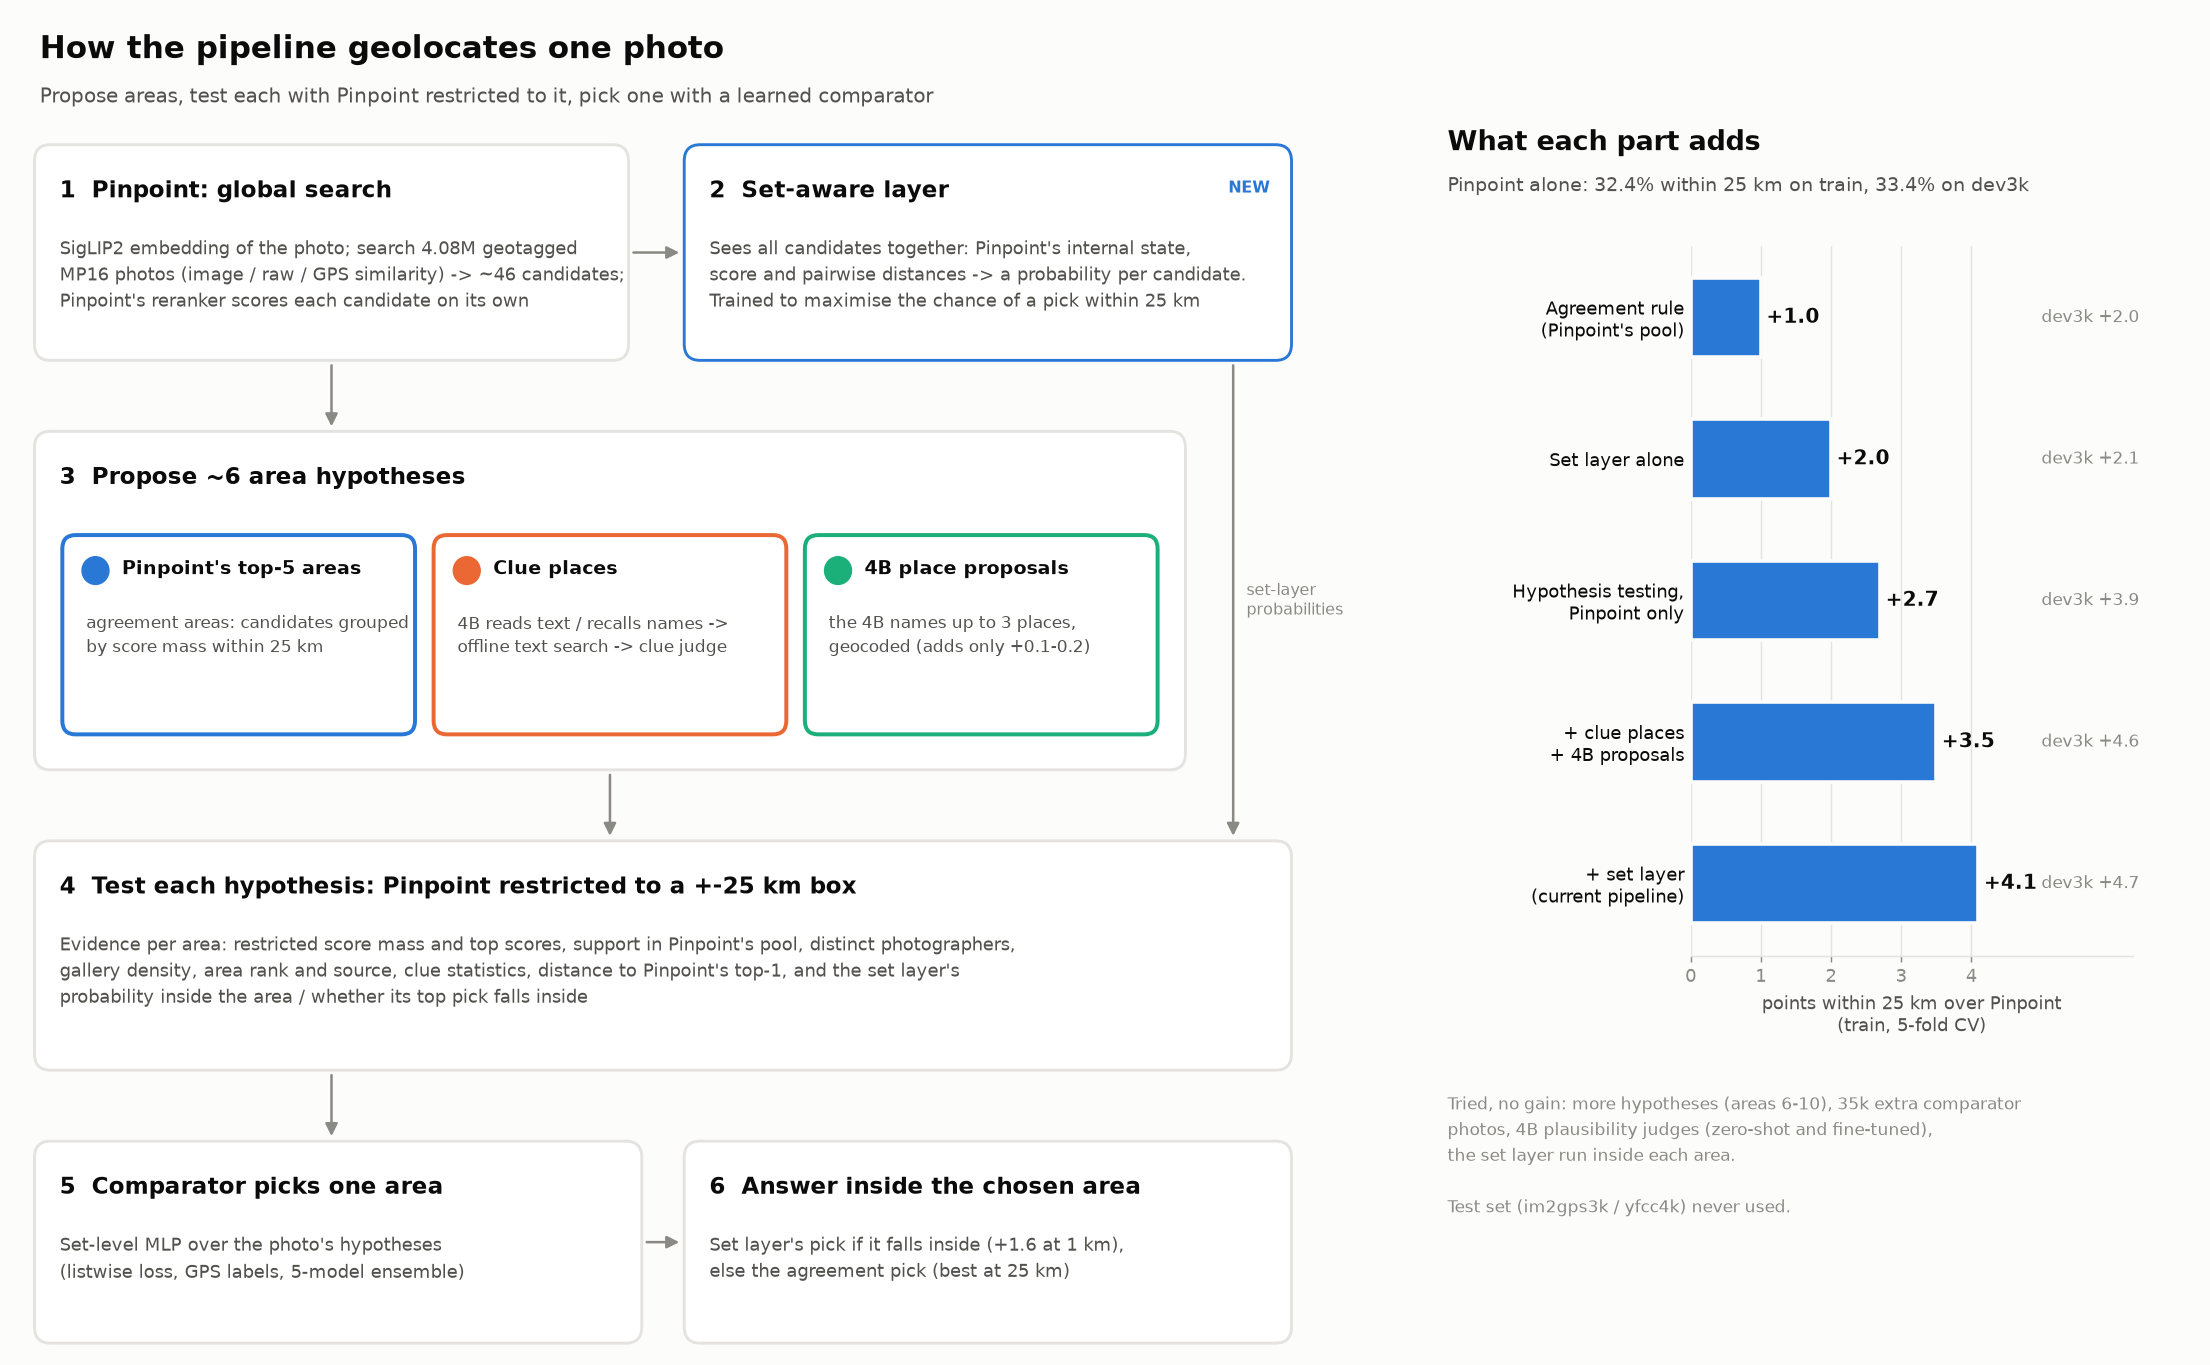
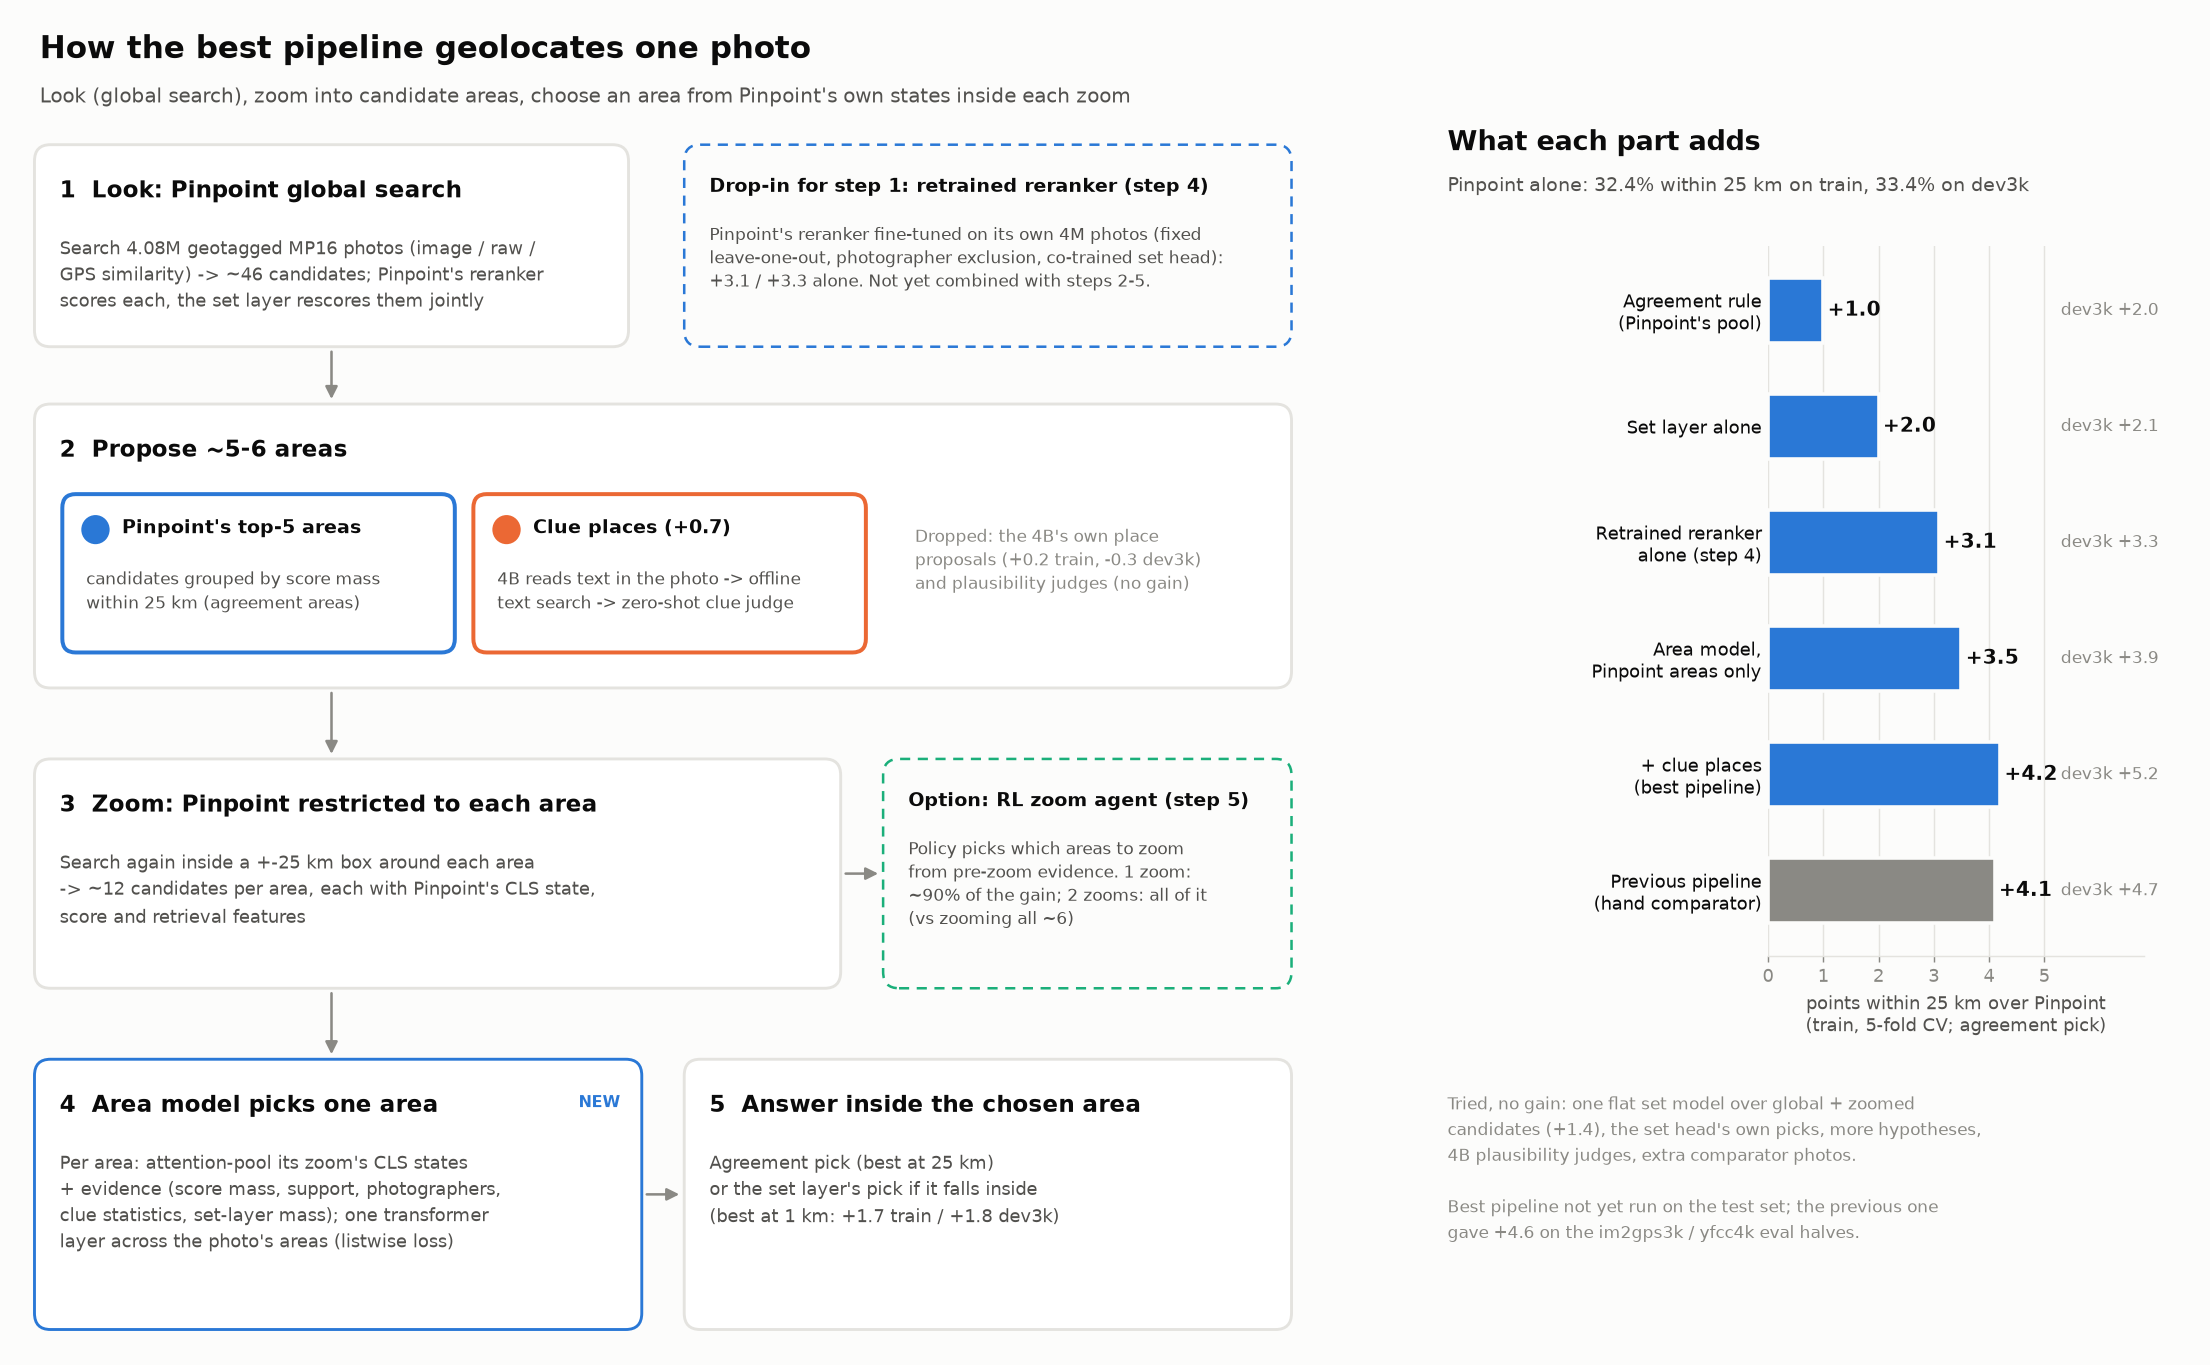
Pipeline figure redrawn for the best pipeline (area model over zoomed states, areas + clues; retrained reranker and RL zoom agent as options)

diff --git a/scripts/pipeline_figure.py b/scripts/pipeline_figure.py
@@ -1,4 +1,4 @@
-# Figure: how the current geolocation pipeline works (HYPOTHESIS_PLAN.md, lessons 68-69, set-aware Pinpoint) and what each part adds.
+# Figure: how the best geolocation pipeline works (PINPOINT_SET_PLAN.md results, lessons 68-70) and what each part adds.
 # Usage: .venvs/sft/bin/python scripts/pipeline_figure.py   (matplotlib lives in the sft env) -> docs/pipeline_overview.png
 from pathlib import Path
 
@@ -29,62 +29,67 @@ def arrow(x0, y0, x1, y1):
     ax.add_patch(FancyArrowPatch((x0, y0), (x1, y1), arrowstyle="-|>", mutation_scale=14, color=MUTED, lw=1.4))
 
 
-ax.text(3, 97.5, "How the pipeline geolocates one photo", fontsize=17, fontweight="bold", color=INK, va="top")
-ax.text(3, 93.6, "Propose areas, test each with Pinpoint restricted to it, pick one with a learned comparator", fontsize=11, color=INK2, va="top")
+def note(x, y, w, h, title, body, color):
+    ax.add_patch(FancyBboxPatch((x, y), w, h, boxstyle="round,pad=0.4,rounding_size=1.2", fc=SURFACE, ec=color, lw=1.4, ls=(0, (4, 3))))
+    ax.text(x + 1.5, y + h - 2.0, title, fontsize=10.5, fontweight="bold", color=INK, va="top")
+    ax.text(x + 1.5, y + h - 5.4, body, fontsize=9.2, color=INK2, va="top", linespacing=1.4)
 
-# 1 Pinpoint global search
-box(3, 74, 44, 15, "1  Pinpoint: global search",
-    "SigLIP2 embedding of the photo; search 4.08M geotagged\nMP16 photos (image / raw / GPS similarity) -> ~46 candidates;\nPinpoint's reranker scores each candidate on its own")
-# 2 Set layer
-box(52, 74, 45, 15, "2  Set-aware layer",
-    "Sees all candidates together: Pinpoint's internal state,\nscore and pairwise distances -> a probability per candidate.\nTrained to maximise the chance of a pick within 25 km", edge=NEW, tag="NEW")
-arrow(47.5, 81.5, 51.5, 81.5)
 
-# 3 Hypotheses
-box(3, 44, 86, 24, "3  Propose ~6 area hypotheses", "")
-srcs = [(BLUE, "Pinpoint's top-5 areas", "agreement areas: candidates grouped\nby score mass within 25 km"),
-        (ORANGE, "Clue places", "4B reads text / recalls names ->\noffline text search -> clue judge"),
-        (AQUA, "4B place proposals", "the 4B names up to 3 places,\ngeocoded (adds only +0.1-0.2)")]
+ax.text(3, 97.5, "How the best pipeline geolocates one photo", fontsize=17, fontweight="bold", color=INK, va="top")
+ax.text(3, 93.6, "Look (global search), zoom into candidate areas, choose an area from Pinpoint's own states inside each zoom",
+        fontsize=11, color=INK2, va="top")
+
+# 1 Look
+box(3, 75, 44, 14, "1  Look: Pinpoint global search",
+    "Search 4.08M geotagged MP16 photos (image / raw /\nGPS similarity) -> ~46 candidates; Pinpoint's reranker\nscores each, the set layer rescores them jointly")
+note(52, 75, 45, 14, "Drop-in for step 1: retrained reranker (step 4)",
+     "Pinpoint's reranker fine-tuned on its own 4M photos (fixed\nleave-one-out, photographer exclusion, co-trained set head):\n+3.1 / +3.3 alone. Not yet combined with steps 2-5.", BLUE)
+
+# 2 Propose
+box(3, 50, 94, 20, "2  Propose ~5-6 areas", "")
+srcs = [(BLUE, "Pinpoint's top-5 areas", "candidates grouped by score mass\nwithin 25 km (agreement areas)"),
+        (ORANGE, "Clue places (+0.7)", "4B reads text in the photo -> offline\ntext search -> zero-shot clue judge")]
 for i, (c, t, b) in enumerate(srcs):
-    x = 5 + i * 28
-    ax.add_patch(FancyBboxPatch((x, 46.5), 26, 14, boxstyle="round,pad=0.3,rounding_size=1", fc="white", ec=c, lw=2.2))
-    ax.add_patch(plt.Circle((x + 2.2, 58.2), 1.0, color=c))
-    ax.text(x + 4.2, 58.3, t, fontsize=10.5, fontweight="bold", color=INK, va="center")
-    ax.text(x + 1.5, 55.2, b, fontsize=9.5, color=INK2, va="top", linespacing=1.4)
-arrow(25, 73.5, 25, 68.5)
+    x = 5 + i * 31
+    ax.add_patch(FancyBboxPatch((x, 52.5), 29, 11, boxstyle="round,pad=0.3,rounding_size=1", fc="white", ec=c, lw=2.2))
+    ax.add_patch(plt.Circle((x + 2.2, 61.2), 1.0, color=c))
+    ax.text(x + 4.2, 61.3, t, fontsize=10.5, fontweight="bold", color=INK, va="center")
+    ax.text(x + 1.5, 58.4, b, fontsize=9.5, color=INK2, va="top", linespacing=1.4)
+ax.text(69, 61.5, "Dropped: the 4B's own place\nproposals (+0.2 train, -0.3 dev3k)\nand plausibility judges (no gain)", fontsize=9.3, color=MUTED, va="top", linespacing=1.4)
+arrow(25, 74.5, 25, 70.5)
 
-# 4 Test each hypothesis
-box(3, 22, 94, 16, "4  Test each hypothesis: Pinpoint restricted to a +-25 km box",
-    "Evidence per area: restricted score mass and top scores, support in Pinpoint's pool, distinct photographers,\n"
-    "gallery density, area rank and source, clue statistics, distance to Pinpoint's top-1, and the set layer's\n"
-    "probability inside the area / whether its top pick falls inside")
-arrow(46, 43.5, 46, 38.5)
-arrow(93, 73.5, 93, 38.5)
-ax.text(94, 56, "set-layer\nprobabilities", fontsize=9, color=MUTED, ha="left", va="center")
+# 3 Zoom
+box(3, 28, 60, 16, "3  Zoom: Pinpoint restricted to each area",
+    "Search again inside a +-25 km box around each area\n-> ~12 candidates per area, each with Pinpoint's CLS state,\nscore and retrieval features")
+note(67, 28, 30, 16, "Option: RL zoom agent (step 5)",
+     "Policy picks which areas to zoom\nfrom pre-zoom evidence. 1 zoom:\n~90% of the gain; 2 zooms: all of it\n(vs zooming all ~6)", AQUA)
+arrow(25, 49.5, 25, 44.5)
+arrow(63.5, 36, 66.5, 36)
 
-# 5 Choose and answer
-box(3, 2, 45, 14, "5  Comparator picks one area",
-    "Set-level MLP over the photo's hypotheses\n(listwise loss, GPS labels, 5-model ensemble)")
-box(52, 2, 45, 14, "6  Answer inside the chosen area",
-    "Set layer's pick if it falls inside (+1.6 at 1 km),\nelse the agreement pick (best at 25 km)")
-arrow(25, 21.5, 25, 16.5)
-arrow(48.5, 9, 51.5, 9)
+# 4 Area model and 5 answer
+box(3, 3, 45, 19, "4  Area model picks one area",
+    "Per area: attention-pool its zoom's CLS states\n+ evidence (score mass, support, photographers,\nclue statistics, set-layer mass); one transformer\nlayer across the photo's areas (listwise loss)", edge=NEW, tag="NEW")
+box(52, 3, 45, 19, "5  Answer inside the chosen area",
+    "Agreement pick (best at 25 km)\nor the set layer's pick if it falls inside\n(best at 1 km: +1.7 train / +1.8 dev3k)")
+arrow(25, 27.5, 25, 22.5)
+arrow(48.5, 12.5, 51.5, 12.5)
 
 # Right: what each part adds
-bx = fig.add_axes([0.765, 0.30, 0.20, 0.52], facecolor=SURFACE)
-rows = [("Agreement rule\n(Pinpoint's pool)", 1.0, 2.0), ("Set layer alone", 2.0, 2.1), ("Hypothesis testing,\nPinpoint only", 2.7, 3.9),
-        ("+ clue places\n+ 4B proposals", 3.5, 4.6), ("+ set layer\n(current pipeline)", 4.1, 4.7)]
+bx = fig.add_axes([0.80, 0.30, 0.17, 0.52], facecolor=SURFACE)
+rows = [("Agreement rule\n(Pinpoint's pool)", 1.0, 2.0, BLUE), ("Set layer alone", 2.0, 2.1, BLUE),
+        ("Retrained reranker\nalone (step 4)", 3.1, 3.3, BLUE), ("Area model,\nPinpoint areas only", 3.5, 3.9, BLUE),
+        ("+ clue places\n(best pipeline)", 4.2, 5.2, BLUE), ("Previous pipeline\n(hand comparator)", 4.1, 4.7, MUTED)]
 y = list(range(len(rows)))[::-1]
-bars = bx.barh(y, [r[1] for r in rows], height=0.56, color=BLUE, edgecolor=SURFACE, linewidth=2)
-for yi, (label, tr, dv) in zip(y, rows):
+bx.barh(y, [r[1] for r in rows], height=0.56, color=[r[3] for r in rows], edgecolor=SURFACE, linewidth=2)
+for yi, (label, tr, dv, _) in zip(y, rows):
     bx.text(tr + 0.08, yi, f"+{tr:.1f}", va="center", fontsize=11, color=INK, fontweight="bold")
-    bx.text(5.0, yi, f"dev3k +{dv:.1f}", va="center", fontsize=9.5, color=MUTED)
+    bx.text(5.3, yi, f"dev3k +{dv:.1f}", va="center", fontsize=9.5, color=MUTED)
 bx.set_yticks(y, [r[0] for r in rows], fontsize=10, color=INK)
-bx.set_xlim(0, 6.3)
-bx.set_xticks(range(5))
-bx.set_xlabel("points within 25 km over Pinpoint\n(train, 5-fold CV)", fontsize=10, color=INK2)
-for s in ("top", "right", "left"):
-    bx.spines[s].set_visible(False)
+bx.set_xlim(0, 6.8)
+bx.set_xticks(range(6))
+bx.set_xlabel("points within 25 km over Pinpoint\n(train, 5-fold CV; agreement pick)", fontsize=10, color=INK2)
+for s_ in ("top", "right", "left"):
+    bx.spines[s_].set_visible(False)
 bx.spines["bottom"].set_color(RULE)
 bx.tick_params(axis="x", colors=MUTED)
 bx.tick_params(axis="y", length=0)
@@ -92,9 +97,9 @@ bx.xaxis.grid(True, color=RULE, lw=0.8)
 bx.set_axisbelow(True)
 fig.text(0.655, 0.89, "What each part adds", fontsize=15, fontweight="bold", color=INK)
 fig.text(0.655, 0.86, "Pinpoint alone: 32.4% within 25 km on train, 33.4% on dev3k", fontsize=10.5, color=INK2)
-fig.text(0.655, 0.20, "Tried, no gain: more hypotheses (areas 6-10), 35k extra comparator\n"
-         "photos, 4B plausibility judges (zero-shot and fine-tuned),\n"
-         "the set layer run inside each area.\n\nTest set (im2gps3k / yfcc4k) never used.", fontsize=9.5, color=MUTED, va="top", linespacing=1.5)
+fig.text(0.655, 0.20, "Tried, no gain: one flat set model over global + zoomed\ncandidates (+1.4), the set head's own picks, more hypotheses,\n"
+         "4B plausibility judges, extra comparator photos.\n\nBest pipeline not yet run on the test set; the previous one\n"
+         "gave +4.6 on the im2gps3k / yfcc4k eval halves.", fontsize=9.5, color=MUTED, va="top", linespacing=1.5)
 
 out = Path("docs/pipeline_overview.png")
 out.parent.mkdir(exist_ok=True)
